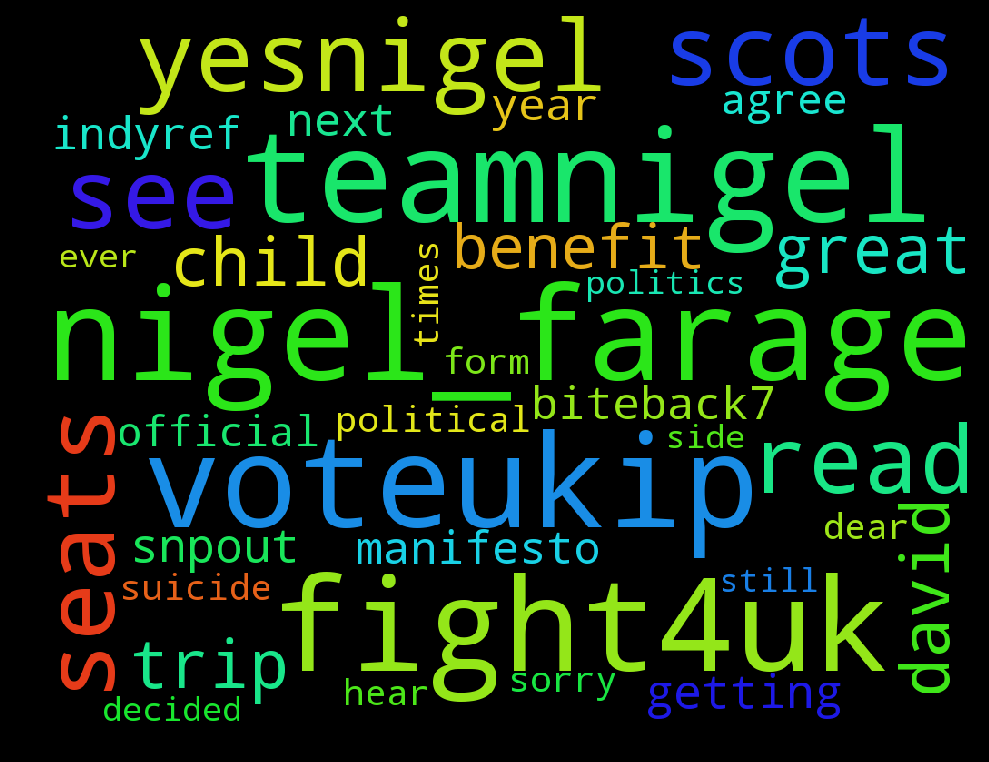
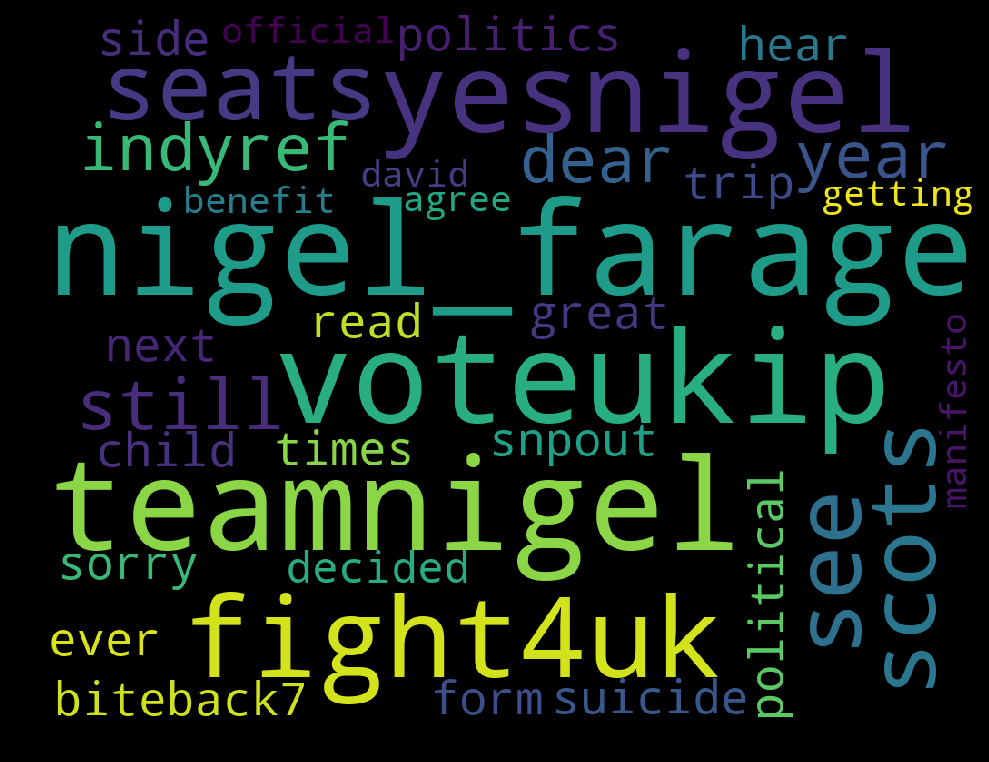
change sorting by idf score

diff --git a/polbotcheck/word_cluster.py b/polbotcheck/word_cluster.py
@@ -37,12 +37,12 @@ def get_word_clouds(tweets, users, words_n=50, lang='english'):
         doc_terms = []
         for word, score in [(terms[i], score) for (i, score) in tfidf_scores]:
             doc_terms.append((word, score))
-        important_terms = dict([(word, score) for word, score in sorted(doc_terms, key=lambda x: x[1])][:words_n])
+        important_terms = [(word, score) for word, score in sorted(doc_terms, key=lambda x: x[1], reverse=True)][:words_n]
         word_cloud_per_person[users[doc]] = important_terms
     return word_cloud_per_person
 
 def save_wordcloud_image(frequencies, filename):
-    wordcloud = WordCloud(width=1024, height=786).fit_words(frequencies)
+    wordcloud = WordCloud(width=1024, height=786, min_font_size=1).fit_words(frequencies)
     fig = plt.figure()
     fig.set_figwidth(12)
     fig.set_figheight(16)
@@ -80,12 +80,13 @@ def get_corpus_of_most_active_users(n_users=5):
     return  corpus, five_users
 
 if __name__ == "__main__":
-    tweets = load_example_data()
     corpus, users = get_corpus_of_most_active_users()
     word_cloud_per_person = get_word_clouds(corpus, users, words_n=100, lang='english')
     for user in users:
         topic_frequencies = word_cloud_per_person[user]
-        save_wordcloud_image(topic_frequencies, 'plots/word_clouds/' + user + '.png')
+        # print user
+        # print topic_frequencies
+        save_wordcloud_image(dict(topic_frequencies), 'plots/word_clouds/' + user + '.png')
 
     # This is an example how to save a word_cloud in the database
     # user_in_db = 'malechanissen'

diff --git a/polbotcheck/db.py b/polbotcheck/db.py
@@ -99,7 +99,7 @@ def saveFollower(username, follower, botness):
 
 def saveTweet(tweet):
     timestamp = time.strftime("%d.%m.%Y %H:%M:%S", time.localtime())
-    tweetDoc = {'_key': tweet.id_str: 'scraped_at': timestamp)
+    tweetDoc = {'_key': tweet.id_str, 'scraped_at': timestamp}
 
     # save the actual tweet in its own subdoc to separate it from out stuff
     tweetDoc['tweet'] = tweet._json
